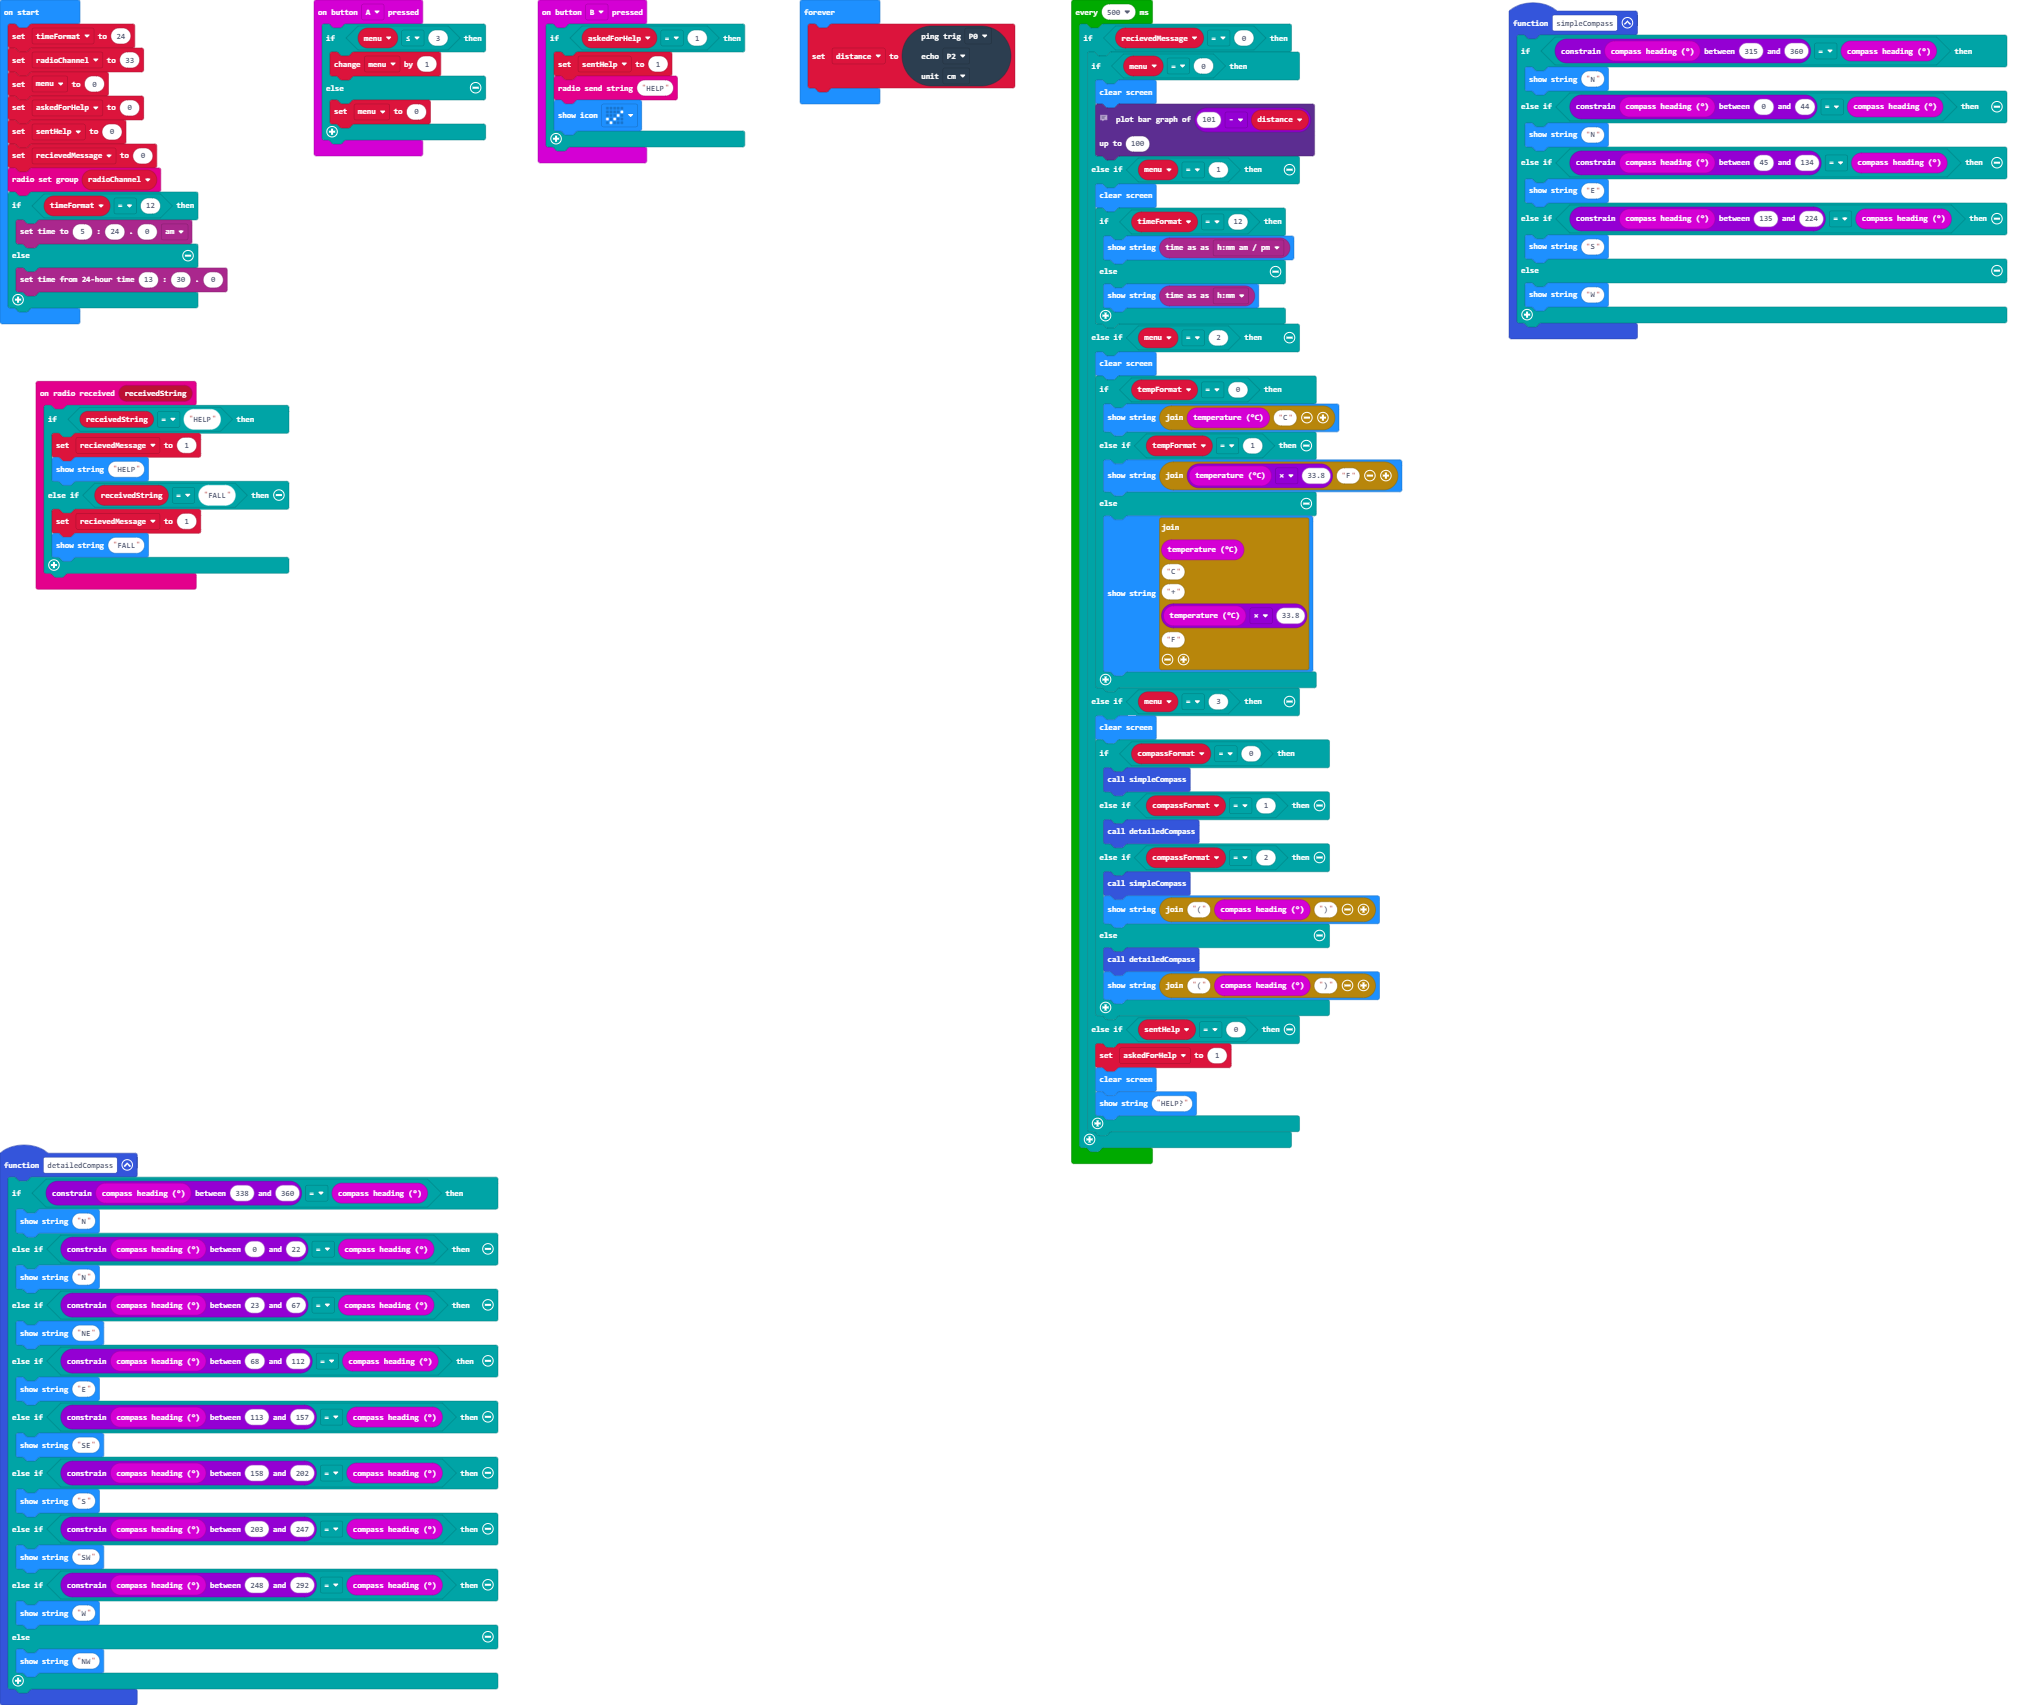
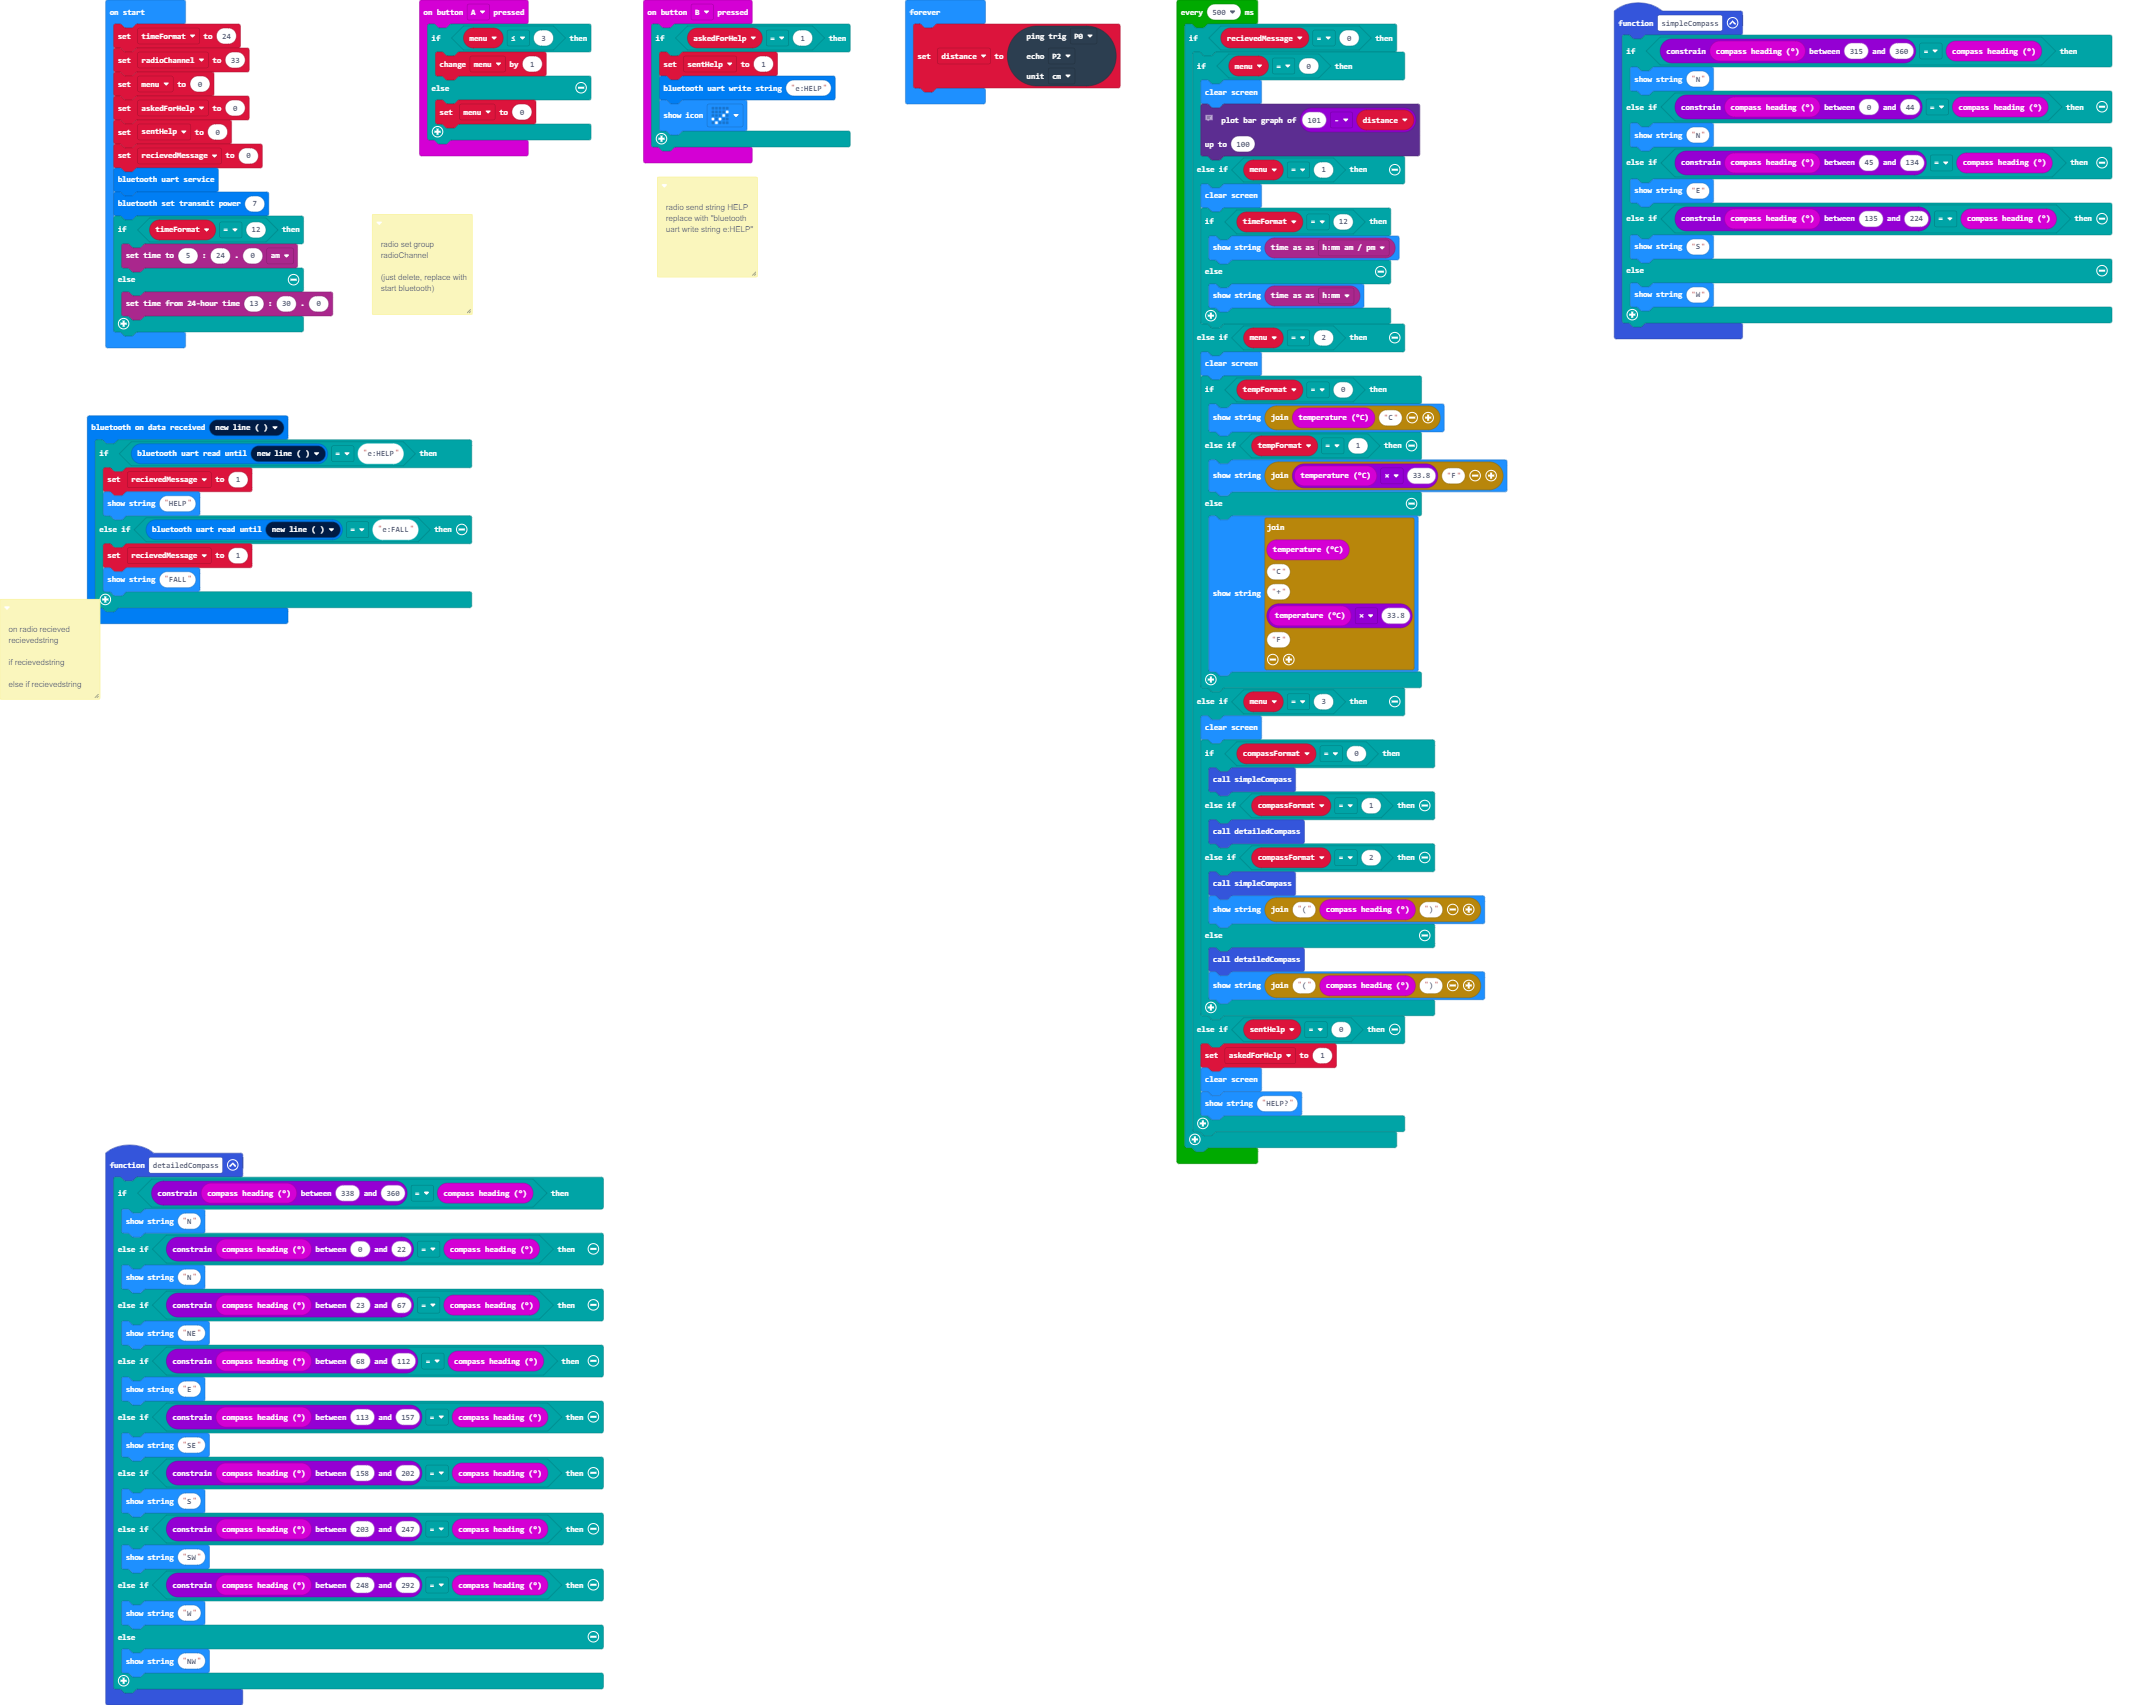
Replace radio with bluetooth

diff --git a/main.ts b/main.ts
@@ -1,3 +1,8 @@
+/**
+ * radio send string HELP
+ * 
+ * replace with "bluetooth uart write string e:HELP"
+ */
 function simpleCompass () {
     if (Math.constrain(input.compassHeading(), 315, 360) == input.compassHeading()) {
         basic.showString("N")
@@ -18,11 +23,18 @@ input.onButtonPressed(Button.A, function () {
         menu = 0
     }
 })
-radio.onReceivedString(function (receivedString) {
-    if (receivedString == "HELP") {
+/**
+ * on radio recieved recievedstring
+ * 
+ * if recievedstring
+ * 
+ * else if recievedstring
+ */
+bluetooth.onUartDataReceived(serial.delimiters(Delimiters.NewLine), function () {
+    if (bluetooth.uartReadUntil(serial.delimiters(Delimiters.NewLine)) == "e:HELP") {
         recievedMessage = 1
         basic.showString("HELP")
-    } else if (receivedString == "FALL") {
+    } else if (bluetooth.uartReadUntil(serial.delimiters(Delimiters.NewLine)) == "e:FALL") {
         recievedMessage = 1
         basic.showString("FALL")
     }
@@ -30,7 +42,7 @@ radio.onReceivedString(function (receivedString) {
 input.onButtonPressed(Button.B, function () {
     if (askedForHelp == 1) {
         sentHelp = 1
-        radio.sendString("HELP")
+        bluetooth.uartWriteString("e:HELP")
         basic.showIcon(IconNames.Yes)
     }
 })
@@ -55,6 +67,11 @@ function detailedCompass () {
         basic.showString("NW")
     }
 }
+/**
+ * radio set group radioChannel
+ * 
+ * (just delete, replace with start bluetooth)
+ */
 let distance = 0
 let recievedMessage = 0
 let sentHelp = 0
@@ -66,7 +83,8 @@ menu = 0
 askedForHelp = 0
 sentHelp = 0
 recievedMessage = 0
-radio.setGroup(radioChannel)
+bluetooth.startUartService()
+bluetooth.setTransmitPower(7)
 if (timeFormat == 12) {
     timeanddate.setTime(5, 24, 0, timeanddate.MornNight.AM)
 } else {
